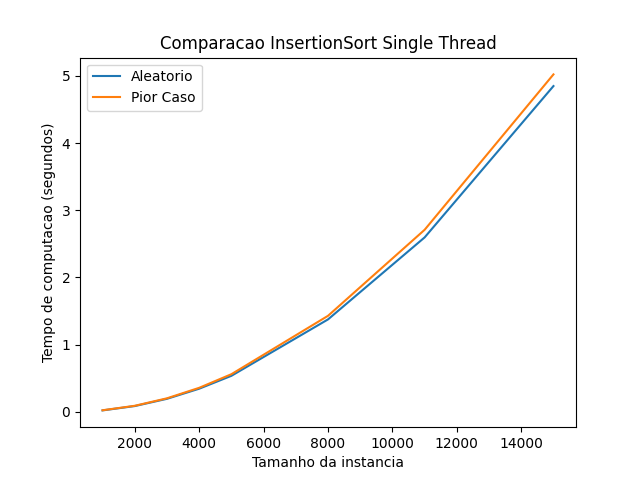
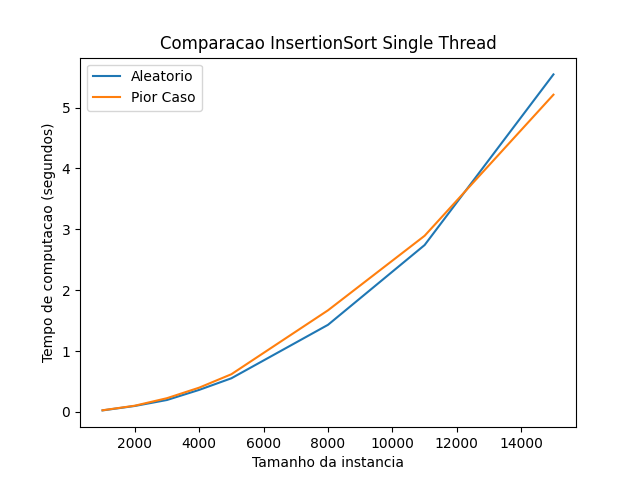
fix selection test error

diff --git a/Selection/Test.py b/Selection/Test.py
@@ -20,7 +20,7 @@ class SortAlgorithmTester:
         """
         O insertion sort não tem pior caso :(
         """
-        return random.shuffle(list(range(size)))
+        return list(range(size))[::-1]
 
     def time_it(self, algorithm, algorithm_name, random_list, instance_size, label=None) -> dict:
         start = time.time()
@@ -54,10 +54,10 @@ class SortAlgorithmTester:
         futures = []
         pool = ProcessPoolExecutor(max_workers=max_workers)
         for i in range(len(algorithms)):
-            random_list = self.worst_case_instance(
+            worst_case_list = self.worst_case_instance(
                 instance_sizes[i])
             futures.append(pool.submit(
-                self.time_it, algorithms[i], algorithms_names[i], random_list, instance_sizes[i]))
+                self.time_it, algorithms[i], algorithms_names[i], worst_case_list, instance_sizes[i]))
         return futures
         ######################################
 
@@ -65,11 +65,11 @@ class SortAlgorithmTester:
         ##### Cronometrar os algoritmos ######
         futures = []
         for i in range(len(algorithms)):
-            random_list = self.worst_case_instance(
+            worst_case_list = self.worst_case_instance(
                 instance_sizes[i])
             futures.append(
                 self.time_it(
-                    algorithms[i], algorithms_names[i], random_list, instance_sizes[i], "Pior Caso")
+                    algorithms[i], algorithms_names[i], worst_case_list, instance_sizes[i], "Pior Caso")
             )
         return futures
         ######################################
